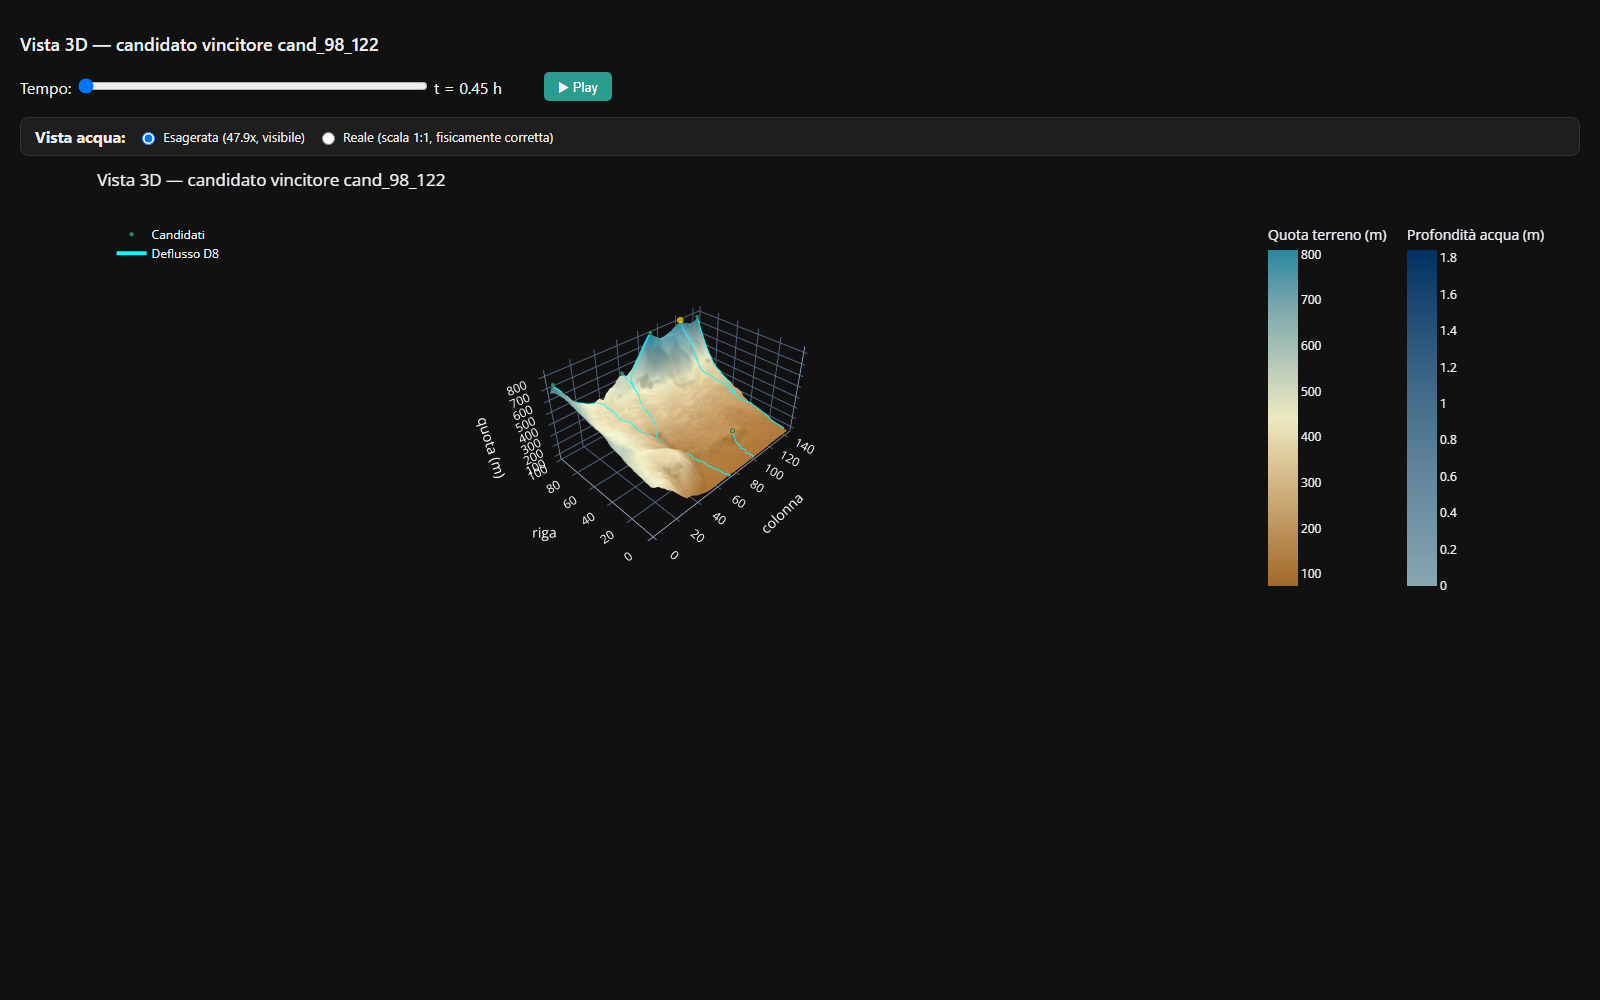
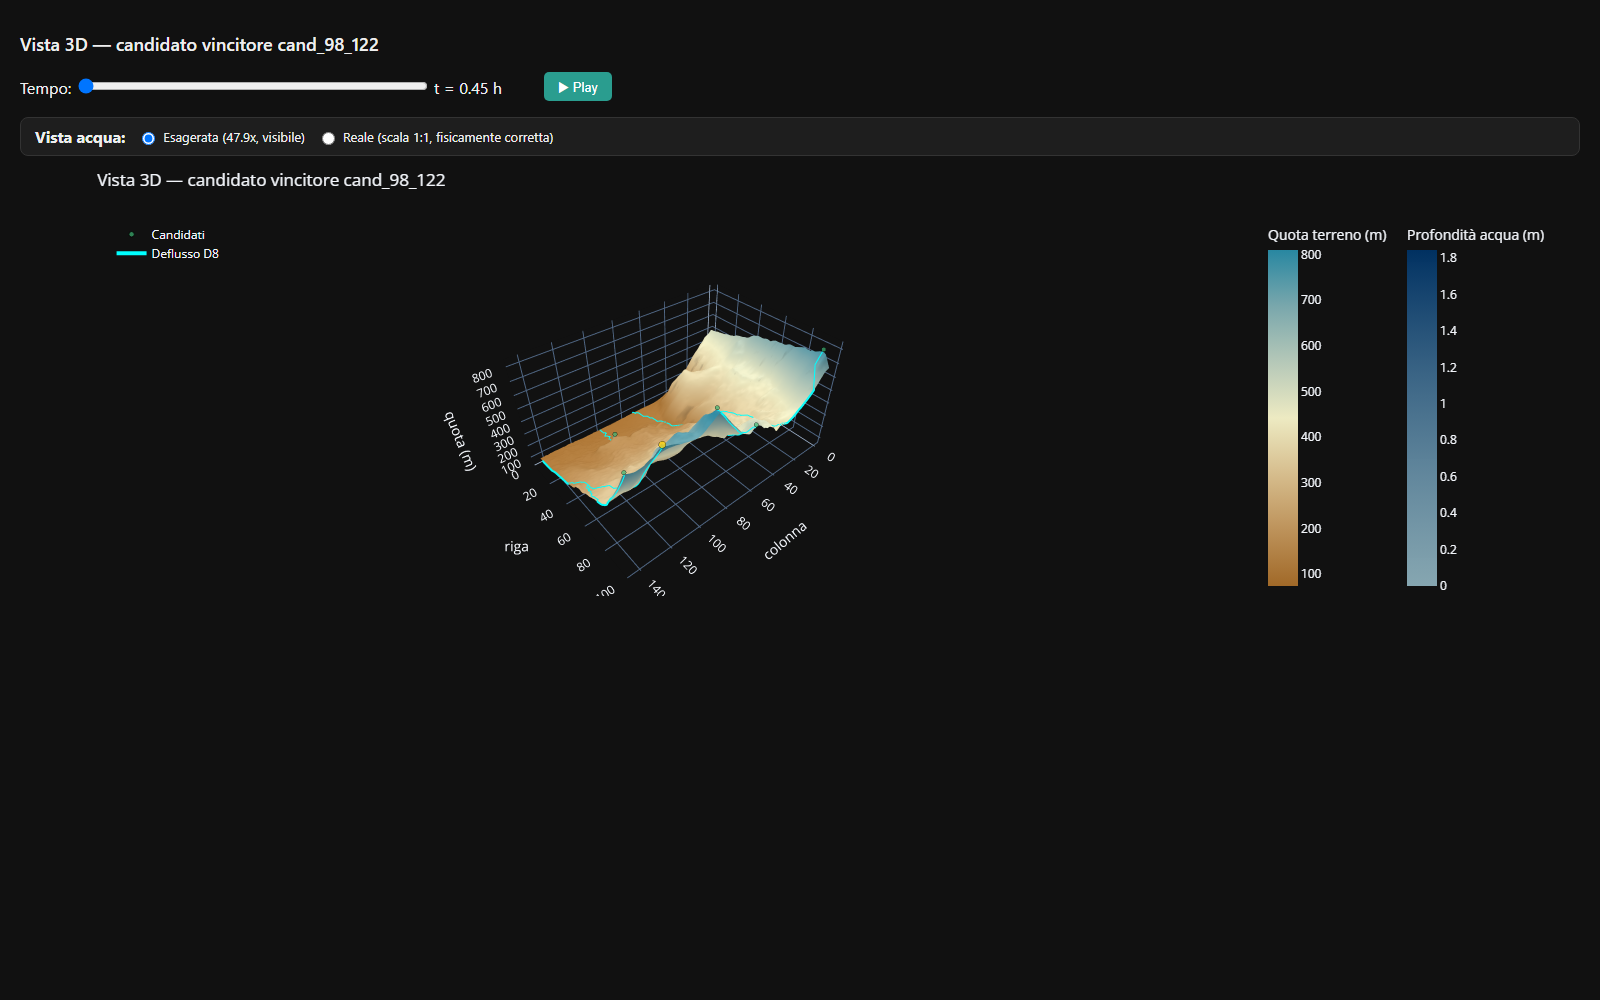
Align 3D views with the animated 3D terrain view
The animated view (05) is the one that shows the slope from the front.
- visualize_flood_3d reuses its camera (_camera_for_frame).
- render_flow_paths_3d uses the same direction (azimuth 50, elevation
  atan(1.1/1.4)) and box aspect; row axis no longer inverted, z label
  kept upright.
- Regenerated 09_flood_3d.png and 12_flow_paths_3d.png.

Changed region(s): [[0.2812, 0.279, 0.5312, 0.558], [0.3125, 0.527, 0.3438, 0.558]]

diff --git a/app/viz/raster_render.py b/app/viz/raster_render.py
@@ -146,10 +146,13 @@ def render_flow_paths_3d(dem: DEMGrid, output_path: str, start_spacing_cells: in
     ax.plot_surface(cols, rows, elevation, cmap="terrain", linewidth=0, alpha=0.8)
     ax.add_collection3d(Line3DCollection(segments, colors="blue", linewidths=1.2, alpha=0.8),
                         autolim=False)
-    ax.invert_yaxis()  # riga 0 in fondo, come nelle mappe 2D (origin upper)
-    ax.view_init(elev=30, azim=120)  # default matplotlib -60° ruotato di -180°: l'acqua a valle resta in vista
+    # Stessa vista della 3D animata (scripts/export_flood_animation_3d.py): camera a 50°
+    # attorno all'asse verticale, elevazione atan(1.1 / 1.4), stesse proporzioni.
+    ax.set_box_aspect((1, elevation.shape[0] / elevation.shape[1], 0.5))
+    ax.view_init(elev=np.degrees(np.arctan2(1.1, 1.4)), azim=50)
     ax.set_title(f"Percorsi di deflusso D8 ({len(segments)} partenze)")
     ax.set_xlabel("colonna")
     ax.set_ylabel("riga")
-    ax.set_zlabel("quota (m)")
+    ax.zaxis.set_rotate_label(False)  # con questa vista matplotlib la capovolgerebbe
+    ax.set_zlabel("quota (m)", rotation=90)
     return _save(fig, output_path)

diff --git a/scripts/visualize_flood_3d.py b/scripts/visualize_flood_3d.py
@@ -25,6 +25,7 @@ from app.hydrology.cellular_automata import simulate_flood_with_snapshots
 from app.hydrology.flow_routing import compute_flow_direction, trace_flow_path
 from app.hydrology.priority_flood import fill_depressions
 from app.ingestion.public_dem import load_dem_from_geotiff
+from scripts.export_flood_animation_3d import _camera_for_frame
 
 DEM_PATH = "data/dem/copernicus_glo30_test.tif"
 OUTPUT_DIR = Path("output/maps")
@@ -157,8 +158,8 @@ def main() -> None:
             yaxis_title="riga",
             zaxis_title="quota (m)",
             aspectratio=dict(x=1, y=n_rows / n_cols, z=0.5),
-            # camera di default Plotly (1.25, 1.25, 1.25) ruotata di -180°: l'acqua in primo piano
-            camera=dict(eye=dict(x=-1.25, y=-1.25, z=1.25)),
+            # stessa camera della vista 3D animata (05): il pendio si vede di fronte
+            camera=_camera_for_frame(0, 1),
         ),
         margin=dict(t=60, b=10),
         legend=dict(x=0.01, y=0.99),  # in alto a sinistra, lontano dalle colorbar a destra
